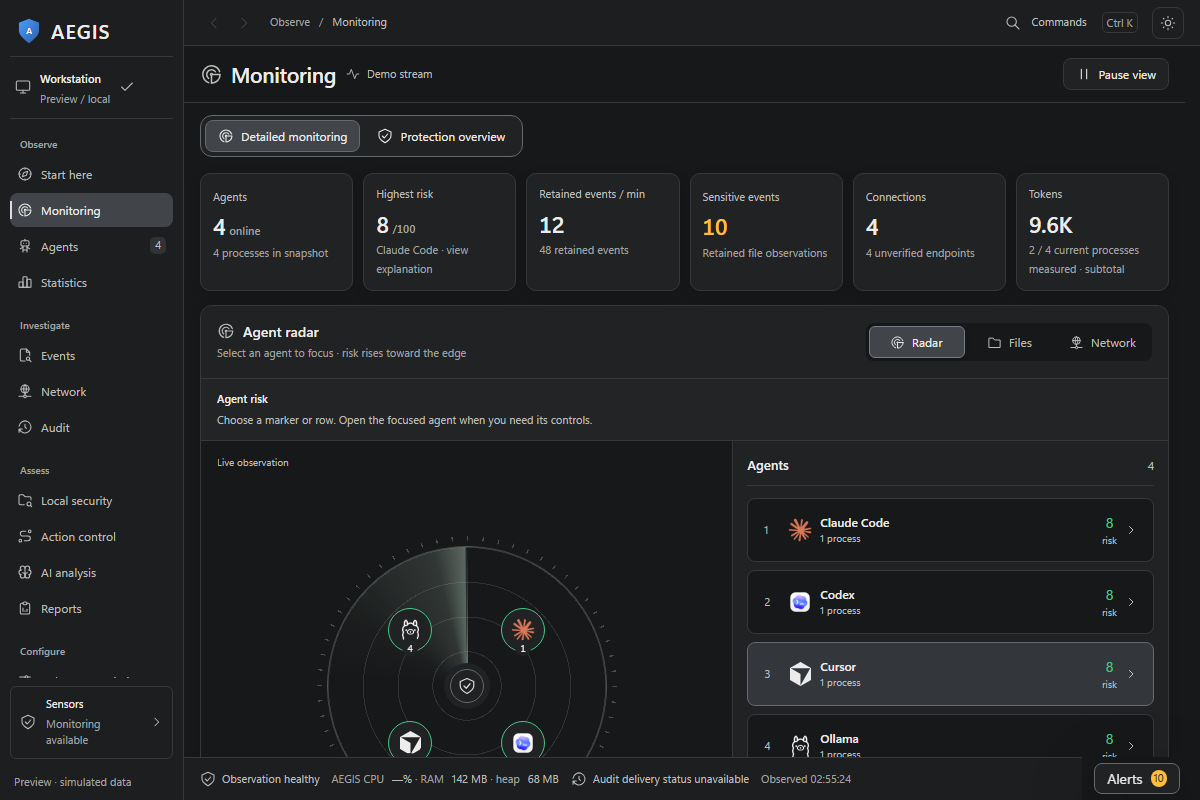
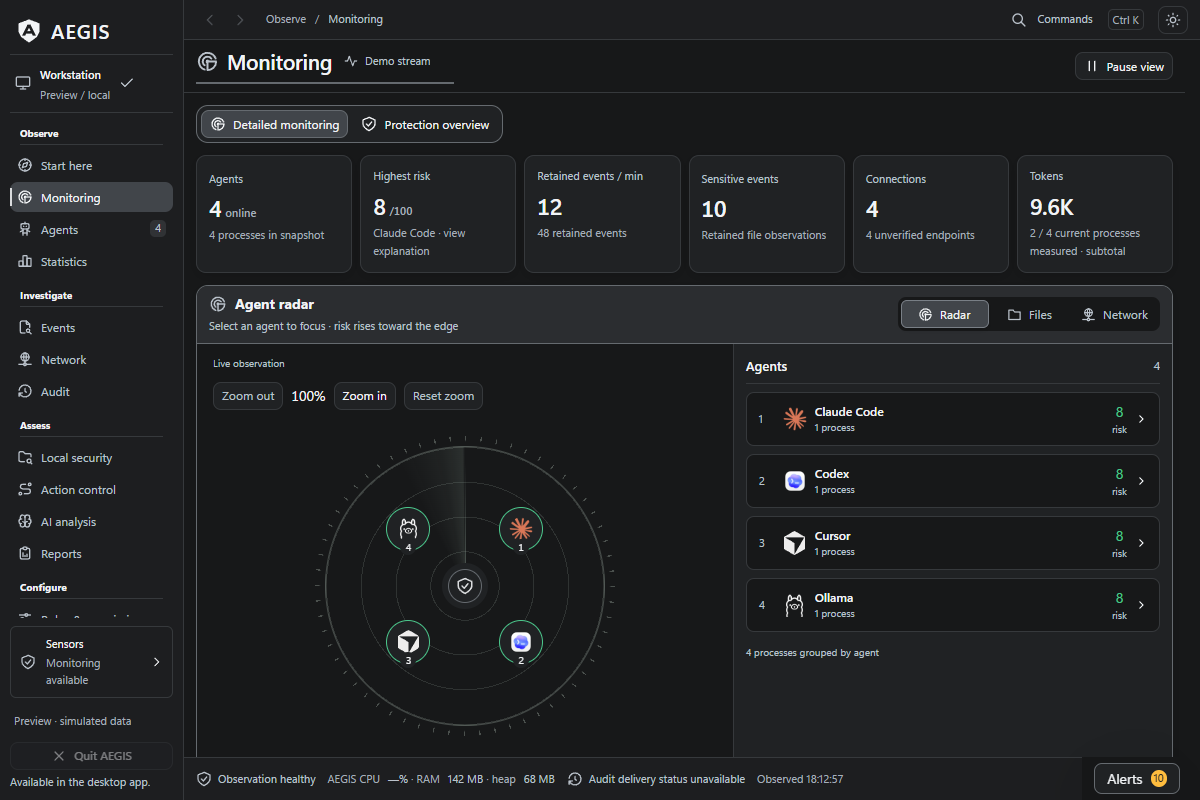
docs: refresh Observatory preview assets

diff --git a/docs/screenshots/README.md b/docs/screenshots/README.md
@@ -1,6 +1,6 @@
 # Observatory screenshots
 
-Captured on 1 October 2026 from the [beta-preparation source](https://github.com/antropos17/Aegis/tree/2f5689743639821c4e82a0a003cd0b3c848c29ad), whose package version is still 0.17.0-alpha. Data is simulated and notification popups were dismissed through their normal controls. These images show the interface; live detection, an installed beta and automatic blocking require separate verification.
+Captured on 11 October 2026 from [source revision d437c2f](https://github.com/antropos17/Aegis/tree/d437c2f332dc71b92a18de4febf9b8a5c06aa9cf), whose package version is 0.19.2-beta. These are source UI preview captures. Data is simulated and notification popups were dismissed through their normal controls. These images show the interface; live detection, an installed beta and automatic blocking require separate verification.
 
 | Observe | Investigate |
 | --- | --- |
@@ -9,3 +9,5 @@ Captured on 1 October 2026 from the [beta-preparation source](https://github.com
 | [![Action control workspace](05-action-control.png)](05-action-control.png) | [![Settings workspace](06-settings.png)](06-settings.png) |
 
 The [Start here guide](../images/observatory-guide.png) is also captured from the same preview. To recapture these files and the [social preview](../social-preview.png) from the current source, run `node scripts/capture-screenshots.mjs` after `npm ci`.
+
+Capture provenance, image hashes and presentation-check limits are recorded in [the receipt](capture-2026-10-11.json). The tracked social PNG is separate from the image selected in GitHub Repository Settings; this refresh does not change that selection.

diff --git a/README.md b/README.md
@@ -22,7 +22,7 @@ VM/provider routes. Default monitoring does not automatically intercept or block
 <p align="center">
   <img src="docs/screenshots/01-monitoring.png" width="980" alt="AEGIS Observatory monitoring workspace with simulated agents and an instance radar">
 </p>
-<p align="center"><sub>Observatory preview with simulated data, captured during beta preparation on 1 October 2026.</sub></p>
+<p align="center"><sub>Observatory source UI preview with simulated data, captured on 11 October 2026.</sub></p>
 
 ## Start with a task
 
